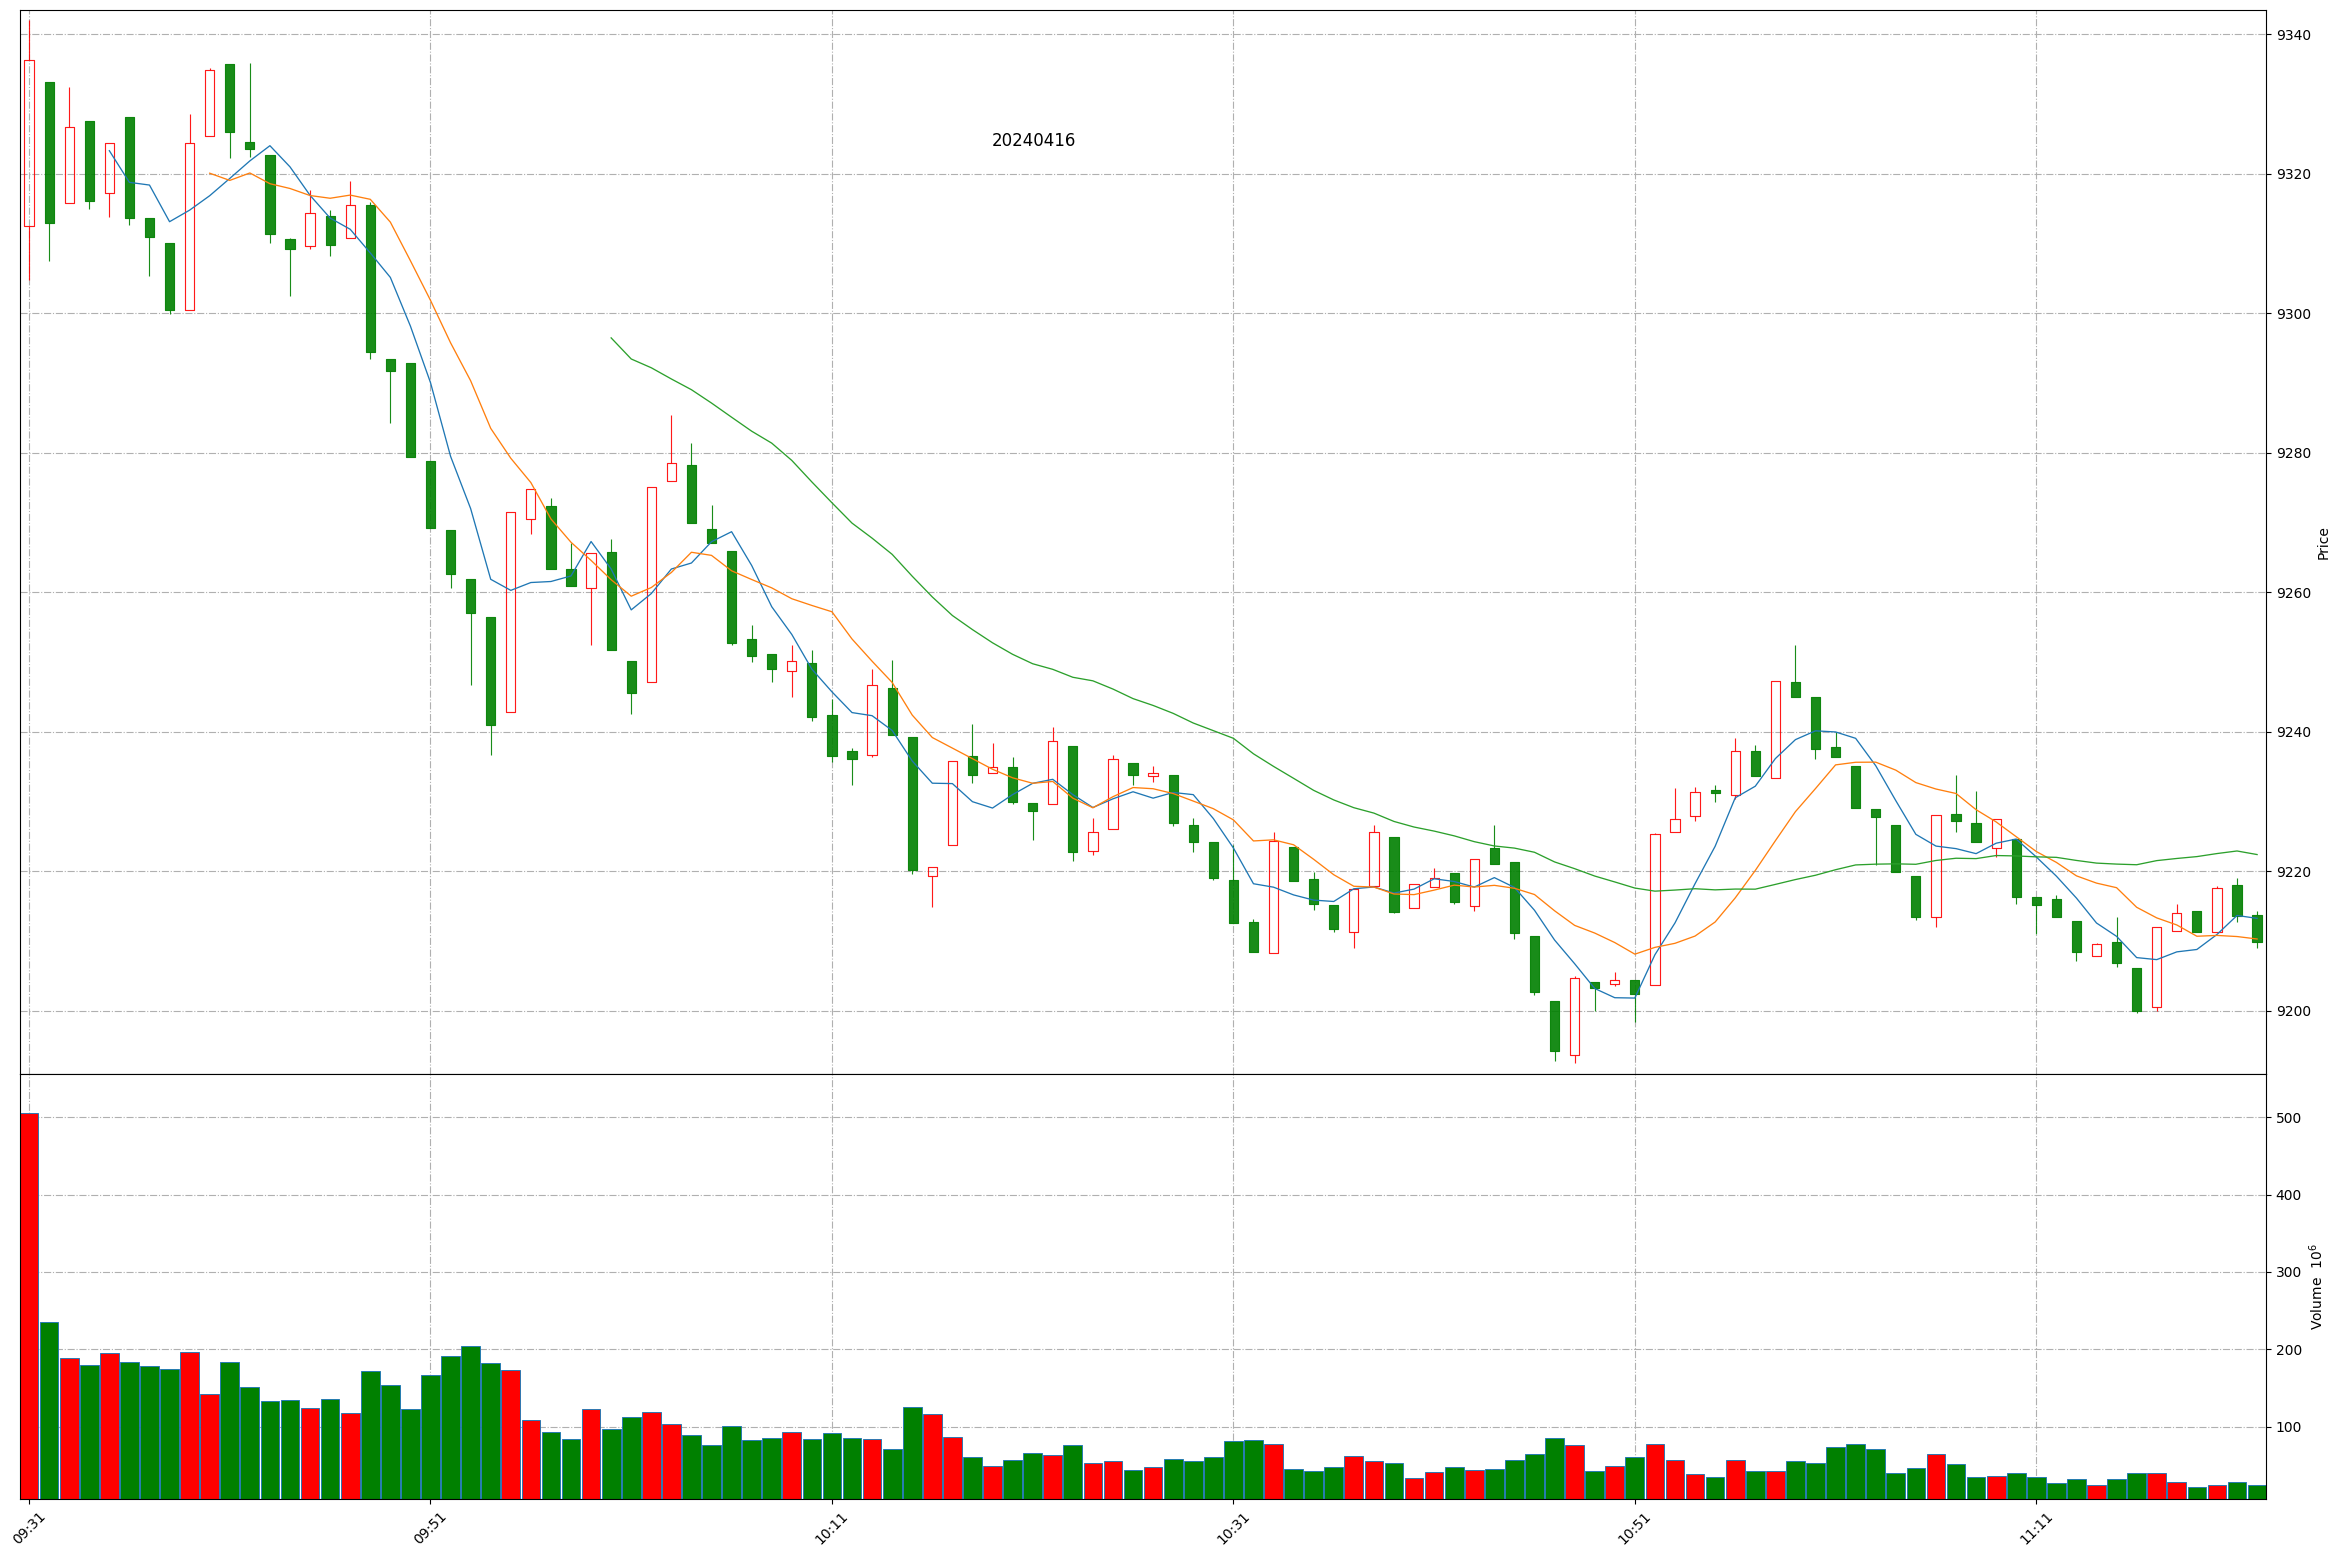
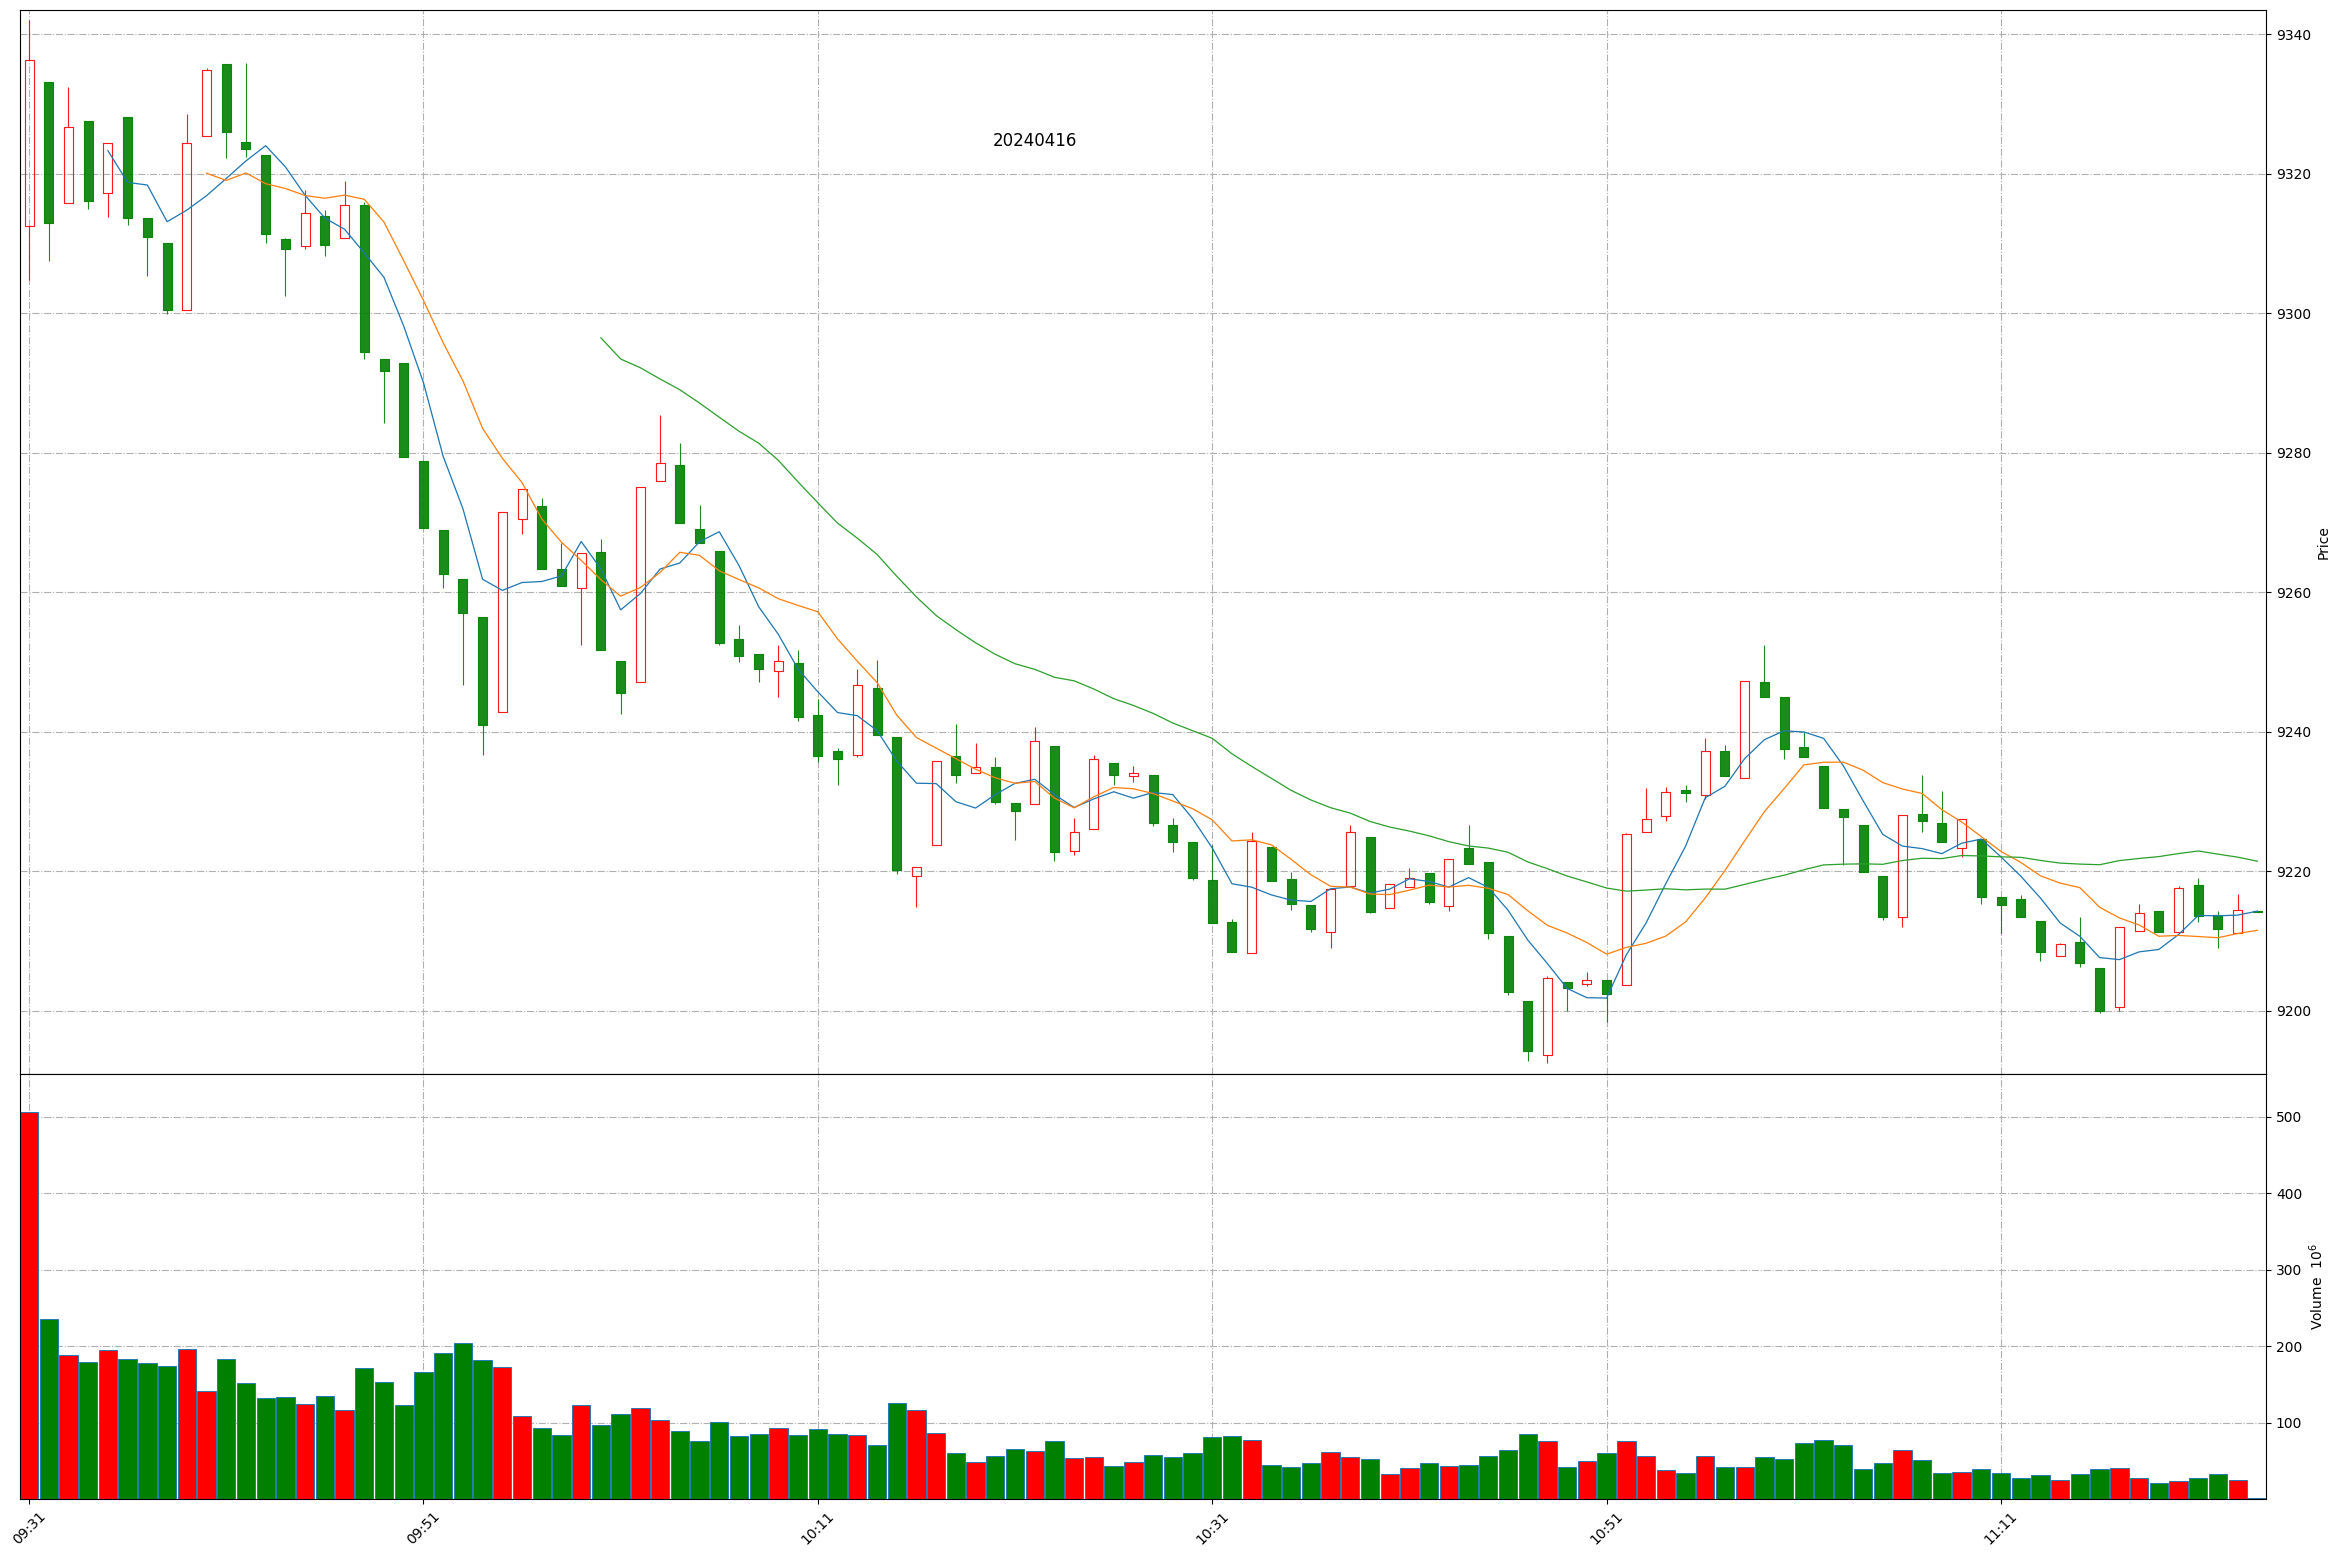
Github action update at 2024-04-16 11:23:26.

diff --git a/README.md b/README.md
@@ -1,11 +1,11 @@
 
 # Daily-A-share-market-quotes 每日 A 股指数（5min 更新）- 20240416
 
-### 上证指数 20240416 11:21
+### 上证指数 20240416 11:23
 ![](./fig/2024/4/20240416-sh000001.png)
 
-### 深证成指 20240416 11:21
+### 深证成指 20240416 11:23
 ![](./fig/2024/4/20240416-sz399001.png)
 
-### 北证50 20240416 11:21
+### 北证50 20240416 11:23
 ![](./fig/2024/4/20240416-bj899050.png)
